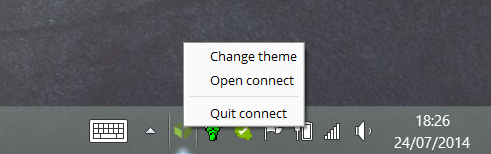
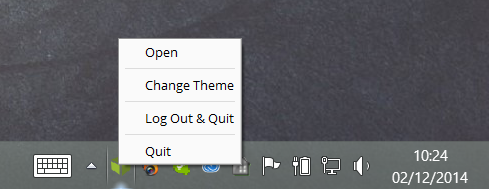
Add section on signing in and out.

diff --git a/doc/using/signing_in_and_out.rst b/doc/using/signing_in_and_out.rst
@@ -1,0 +1,45 @@
+..
+    :copyright: Copyright (c) 2014 ftrack
+
+.. _using/signing_in_and_out:
+
+****************
+Signing In & Out
+****************
+
+To use the service, you need a valid `ftrack <http://www.ftrack.com>`_ account.
+
+Signing In
+==========
+
+The first time you launch the service (or after you have logged out previously)
+you will be prompted to sign in to your ftrack server.
+
+.. image:: /image/sign_in_blank.png
+
+Fill out the fields:
+
+:Server url: The URL to your server that you normally type into a web browser.
+             For example, https://mycompany.ftrackapp.com
+:Username: The username you were given to sign into the ftrack web application.
+:API key: Your personal API key which you can find on :ref:`your account page
+          <ftrack:using/getting_started/managing_account>` in the main ftrack
+          web application.
+
+Then press :guilabel:`Sign In`.
+
+.. note::
+
+    Once signed in successfully, you will not have to sign in again, even if you
+    close and reopen the application, unless you sign out explicitly.
+
+Signing Out
+===========
+
+If you need to sign out explicitly then you can do this from the service context
+menu. Just :kbd:`right click` on the icon and select :guilabel:`Log Out & Quit`
+from the menu.
+
+.. image:: /image/service_menu.png
+
+

diff --git a/doc/index.rst b/doc/index.rst
@@ -7,12 +7,6 @@ ftrack connect
 
 Welcome to the ftrack connect documentation.
 
-.. important::
-
-    ftrack connect is currently in beta. As such, there are many missing
-    features and it requires more manual setup than the final released version
-    will.
-
 .. toctree::
     :maxdepth: 2
 

diff --git a/doc/using/index.rst b/doc/using/index.rst
@@ -13,5 +13,6 @@ Find out all the information you need to use ftrack connect day to day.
     :maxdepth: 1
 
     launching
+    signing_in_and_out
     tracking_time
     publishing
